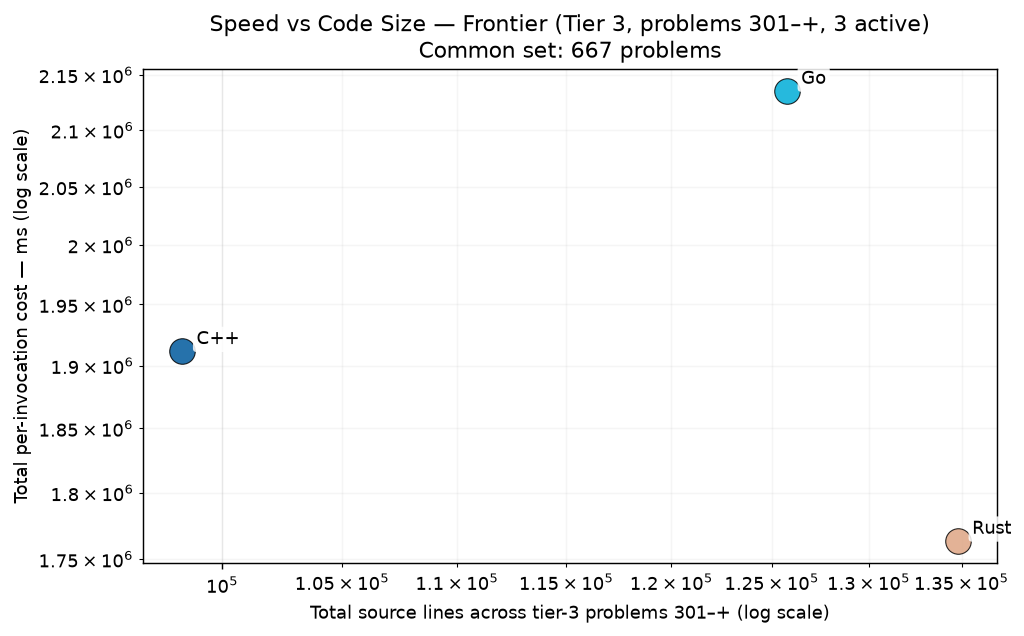
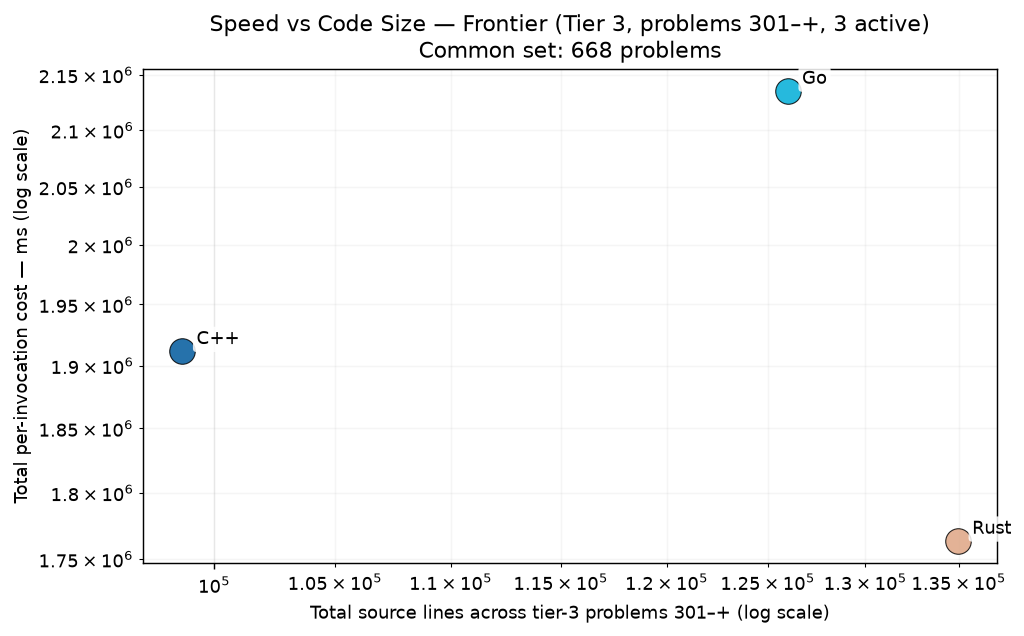
cpp p0856

diff --git a/RESULTS.md b/RESULTS.md
@@ -1,6 +1,6 @@
 # Project Euler — Cross-Language Benchmarks
 
-> **Scope: 4521 in-scope cells across 1007 problems × tiered languages — 4439 measured (98.2% coverage).**
+> **Scope: 4521 in-scope cells across 1007 problems × tiered languages — 4440 measured (98.2% coverage).**
 > The cross-language ranking below is computed over the **200-problem common set** (problems in 1-200 where every language has a passing measurement) — the apples-to-apples Foundation comparison surface.  Per-tier rankings and coverage detail appear further below.
 > Growing carefully — each new problem and language is audited for state-leak
 > safety, verified for answer correctness, and added only when it cleanly fits the
@@ -70,15 +70,15 @@ Same scatter as the Foundation chart, restricted to the tier-2 active languages 
 
 The frontier verification trio — C++, Go, Rust — on problems above 300. 3-way cross-language agreement is the verification protocol (strictly stronger than 2-way; see JOURNEY.md "Tier Reframing" episode for the p254 lesson that motivated it). Python and Zig are explicitly out of this tier — python's wall cost makes it impractical at level 5+, and zig's role caps at Tier 2.
 
-### Per-Invocation Cost (Common Set, 667 of ≤707 problems in scope)
+### Per-Invocation Cost (Common Set, 668 of ≤707 problems in scope)
 
 ![Per-Invocation Cost — Tier 3](charts/per_iter_total_tier3.png)
 
-| Rank | Language | Geomean (667-problem common set) | Total (sum) | Lines of code | vs Fastest |
+| Rank | Language | Geomean (668-problem common set) | Total (sum) | Lines of code | vs Fastest |
 |------|----------|--------------------:|------------:|--------------:|-----------:|
-| 1 | **Rust** | 74.94 ms | 1763.45 s | 134,788 | 1.00× |
-| 2 | **C++** | 77.07 ms | 1911.53 s | 98,392 | 1.03× |
-| 3 | **Go** | 87.11 ms | 2135.12 s | 125,753 | 1.16× |
+| 1 | **Rust** | 74.55 ms | 1763.46 s | 134,936 | 1.00× |
+| 2 | **C++** | 76.78 ms | 1911.54 s | 98,720 | 1.03× |
+| 3 | **Go** | 86.96 ms | 2135.15 s | 125,997 | 1.17× |
 
 ### Speed vs Code Size
 
@@ -264,7 +264,7 @@ table never silently mixes versions (METHODOLOGY.md §4).  Current state of the
 |----------|-----------|------:|---------------|
 | **ARM64** | `Apple clang version 21.0.0 (clang-2100.1.1.101)` | 200 | 2026-07-30 |
 | **C** | `Apple clang version 21.0.0 (clang-2100.1.1.101)` | 200 | 2026-07-30 |
-| **C++** | `Apple clang version 21.0.0 (clang-2100.1.1.101)` | 967 | 2026-09-06 |
+| **C++** | `Apple clang version 21.0.0 (clang-2100.1.1.101)` | 968 | 2026-09-06 |
 | **C#** | `10.0.101` | 200 | 2026-07-30 |
 | **Go** | `go version go1.26.5 darwin/arm64` | 970 | 2026-09-06 |
 | **Java** | `openjdk version "21.0.2" 2024-01-16 LTS` | 200 | 2026-07-30 |

diff --git a/per_problem/per_problem_0801-0900.md b/per_problem/per_problem_0801-0900.md
@@ -63,7 +63,7 @@ in tier-1 display order (native → managed → interpreted).
 | **p0853** | 45.6 µs | 41.5 µs | 35.3 µs~ |
 | **p0854** | 3.95 ms | 14.27 ms | 919.73 ms |
 | **p0855** | 18.39 s | 7.96 s | 5.66 s |
-| **p0856** | — | 2.33 ms | 25.89 ms |
+| **p0856** | 6.39 ms | 2.33 ms | 25.89 ms |
 | **p0857** | 94.81 ms | 173.87 ms | 65.17 ms |
 | **p0858** | — | 69.89 ms | — |
 | **p0859** | 14.23 ms | 19.64 ms | 6.83 ms |
